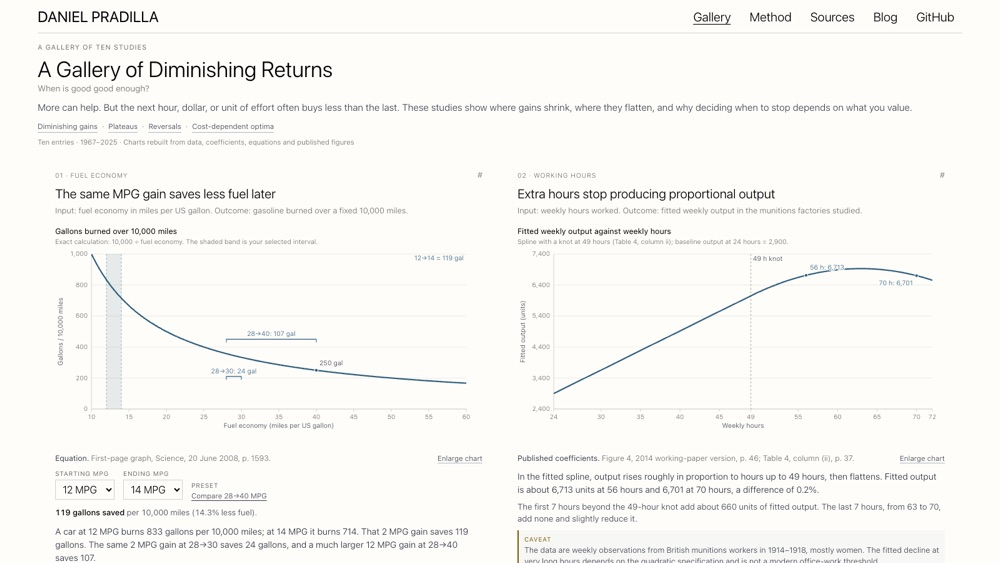
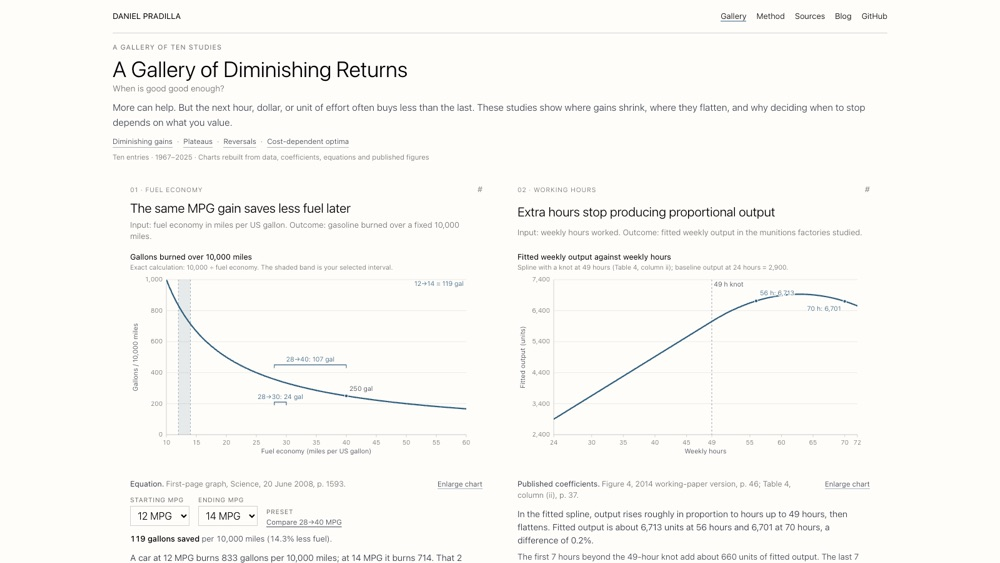
Refresh the gallery card screenshot

diff --git a/index.html b/index.html
@@ -59,7 +59,7 @@
 
         <article class="project-card">
           <a class="project-image" href="/projects/diminishing-returns/" aria-label="Open A Gallery of Diminishing Returns">
-            <img src="images/diminishing-returns.jpg?v=20261026b" alt="A Gallery of Diminishing Returns showing the fuel economy and working hours charts" width="1000" height="563" />
+            <img src="images/diminishing-returns.jpg?v=20261026c" alt="A Gallery of Diminishing Returns showing the fuel economy and working hours charts" width="1000" height="563" />
           </a>
           <div class="project-copy">
             <p class="project-type">Research visualization</p>
